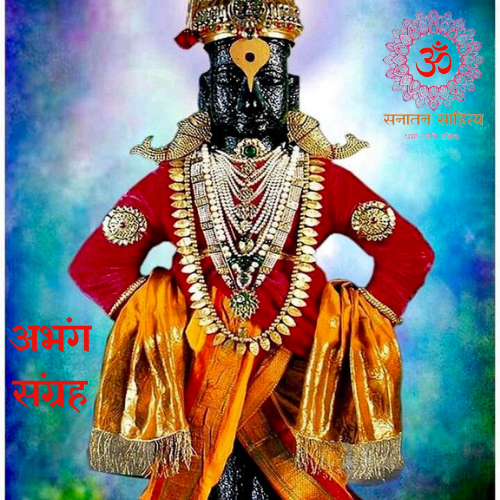
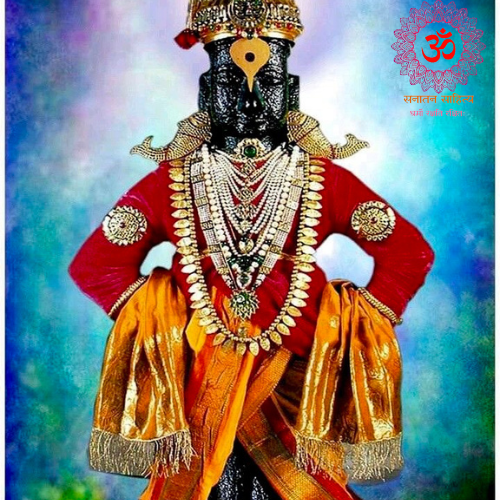
up

Changed region(s): [[0.75, 0.0, 0.99, 0.3], [0.03, 0.63, 0.18, 0.72], [0.03, 0.75, 0.18, 0.81]]

diff --git a/content/aarti_sangrah/index.html b/content/aarti_sangrah/index.html
@@ -1,0 +1,72 @@
+<!DOCTYPE html>
+<html lang="en">
+
+<head>
+  <meta charset="UTF-8">
+  <meta name="viewport" content="width=device-width, initial-scale=1.0">
+  <title>|| आरती संग्रह ||</title>
+  <link rel="stylesheet" href="/assets/css/styles.css">
+</head>
+
+<body>
+ 
+
+  <div class="grid-container">
+    <div class="grid-item">
+      <a href="/content/granth_sangrah/saint_dnyaneshwar_maharaj/sartha_shree_dnyaneshwari/index.html">
+        <div class="content">
+          <img src="/assets/images/sartha_dnyaneshwari_index.png" alt="Image 1">
+          <h3>गणपतीची आरती</h3>
+        </div>
+      </a>
+    </div>
+
+    
+
+       
+            <div class="grid-item">
+              <a href="/content/granth_sangrah/saint_dnyaneshwar_maharaj/sartha_shree_dnyaneshwari/index.html">
+                <div class="content">
+                  <img src="/assets/images/sartha_dnyaneshwari_index.png" alt="Image 1">
+                  <h3>दत्ताची आरती</h3>
+                </div>
+              </a>
+            </div>
+
+            
+                <div class="grid-item">
+                  <a href="/content/granth_sangrah/saint_dnyaneshwar_maharaj/sartha_shree_dnyaneshwari/index.html">
+                    <div class="content">
+                      <img src="/assets/images/sartha_dnyaneshwari_index.png" alt="Image 1">
+                      <h3>ज्ञानदेवाची आरती</h3>
+                    </div>
+                  </a>
+                </div>
+
+                
+                    <div class="grid-item">
+                      <a href="/content/granth_sangrah/saint_dnyaneshwar_maharaj/sartha_shree_dnyaneshwari/index.html">
+                        <div class="content">
+                          <img src="/assets/images/sartha_dnyaneshwari_index.png" alt="Image 1">
+                          <h3>शंकराची आरती</h3>
+                        </div>
+                      </a>
+                    </div>
+           
+  </div>
+
+  <div class="content">
+    <footer class="bottom-flex-container">
+      <a href="/index.html">Home</a>
+      <a href="/about.html">About Us</a>
+      <a href="/contact.html">Contact Us</a>
+      <p>&copy; 2024 sanatansahitya.com</p>
+  </footer>
+  </div>
+
+
+
+  <script src="./assets/js/script.js"></script>
+</body>
+
+</html>

diff --git a/index.html b/index.html
@@ -18,7 +18,7 @@
 
         <div class="header-content">
             <h1>सनातन साहित्य</h1>
-            <img src="./assets/images/main_logo.png" alt="Website Logo" width="90" height="90">
+            <img src="./assets/images/सनातन_साहित्य_wobg.png" alt="Website Logo" width="90" height="90">
         </div>
 
         <div class="header">
@@ -84,7 +84,7 @@
 
 
         <div class="grid-item">
-            <a href="/content/granth_sangrah/index.html">
+            <a href="/content/aarti_sangrah/index.html">
                 <div class="content">
                     <img src="/assets/images/aarti_sangrah.png" alt="Image 1">
                     <h3>आरती संग्रह</h3>

diff --git a/assets/css/styles.css b/assets/css/styles.css
@@ -4,7 +4,7 @@ body {
   margin: 0;
   padding: 0;
   color: #333;
-  background-image: url('/assets/images/sanatan_sahitya_logo.jpg'); /* Replace 'background.jpg' with your image file */
+  background-image: url('/assets/images/सनातन\ साहित्य.png'); /* Replace 'background.jpg' with your image file */
   background-size: 100% 100%;
   /* Set background-size to cover entire container */
   background-repeat: no-repeat;
